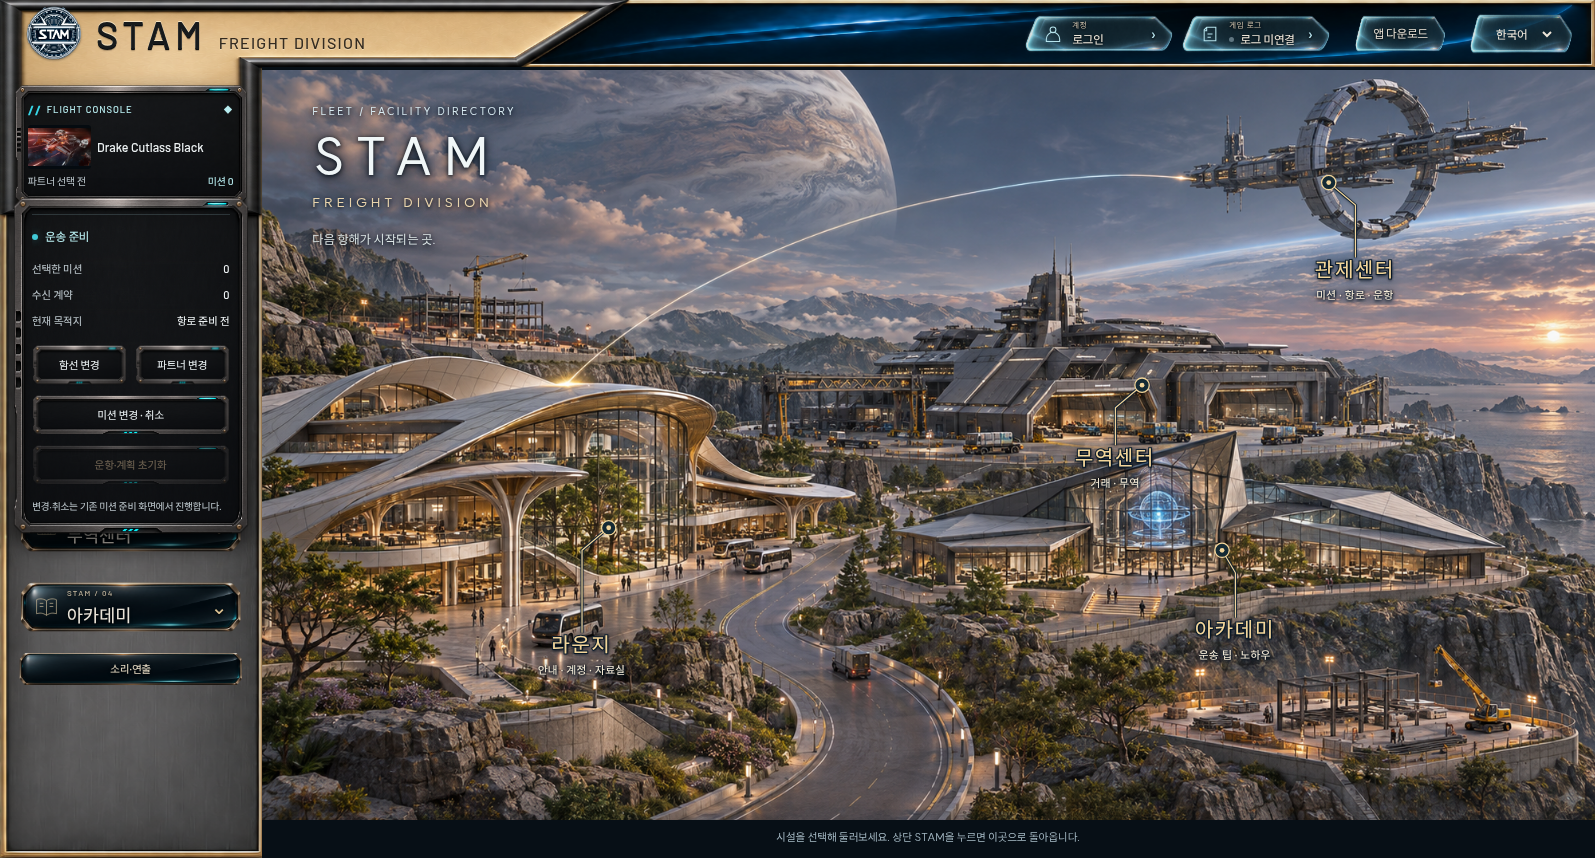
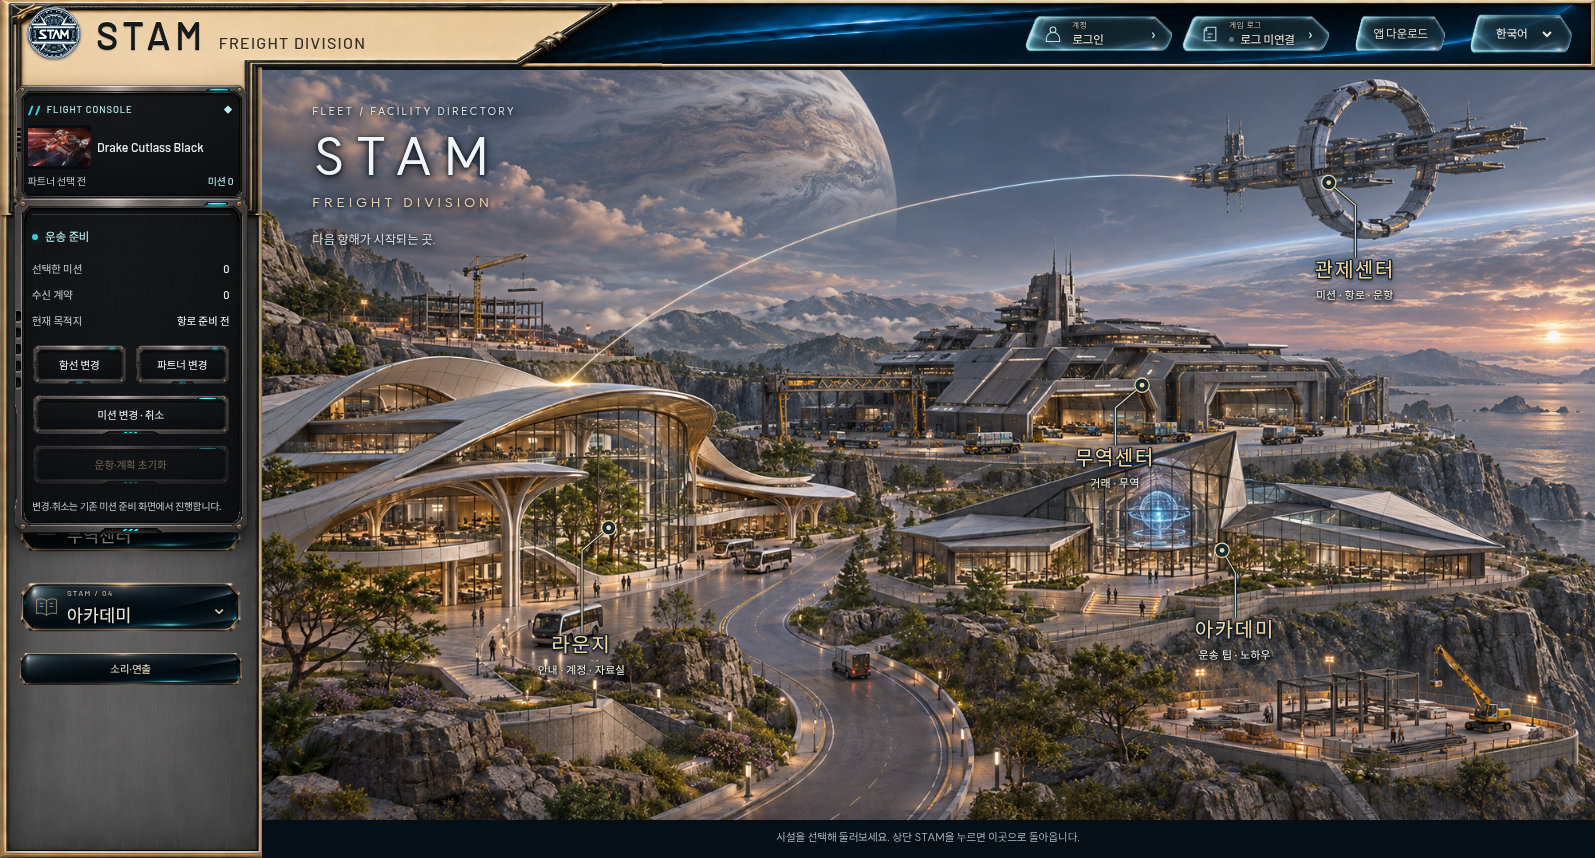
Add refined ornamental edge details to gold housing only

Changed region(s): [[0.0, 0.0, 0.3994, 0.2424], [0.9216, 0.0303, 0.9524, 0.0606]]

diff --git a/apps/control-room/src/ShellMaterial.tsx b/apps/control-room/src/ShellMaterial.tsx
@@ -1,5 +1,6 @@
 import {useLayoutEffect,useRef} from 'react';
 import accent from './assets/navigation/shell-gold-gunmetal.png';
+import ornament from './assets/navigation/shell-gold-ornament.png';
 
 /** A clean material asset, with no baked-in controls or room screenshot.
  * The corner and edge heights stay fixed; the plain strips fill the existing
@@ -34,11 +35,11 @@ export function ShellMaterial(){
   return()=>{observer.disconnect();cancelAnimationFrame(frame);sidebar.removeEventListener('scroll',schedule);window.removeEventListener('resize',schedule);};
  },[]);
  const pieces=[
-  ['join','0 0 216 102',accent],
-  ['sweep','216 0 504 102',accent],
+  ['join','0 0 216 102',ornament],
+  ['sweep','216 0 504 102',ornament],
   ['top','720 0 810 102',accent],
   ['top-end','1530 0 6 102',accent],
-  ['connector','0 102 216 300',accent],
+  ['connector','0 102 216 300',ornament],
   ['side','0 402 216 616',accent],
   ['side-end','0 1018 216 6',accent],
  ];

diff --git a/docs/cinematics/shell-layout-fix-20261118/HANDOFF.md b/docs/cinematics/shell-layout-fix-20261118/HANDOFF.md
@@ -10,7 +10,9 @@
 
 사용자가 회색/백금처럼 보인다고 지적한 시안은 사용하지 않는다. 최신 생성본은 따뜻한 샴페인 골드, 미세한 표면결, 사선 절삭면의 이중 가공 홈과 단차, 모서리의 짧은 가공 표시를 포함한다. 최종 원본 `/workspace/generated_images/exec-6b323f54-03a4-4b51-9653-3e6736ce2f8e.png`. 중간 시안과 기존 원본은 제작 폴더에 보존했다. `assets/provenance.json`에 최종 출처/해시/일곱 구간을 기록했다.
 
-최신 후속: 안쪽 장식선 시안은 교체했다. 검은 금속이 금색 하우징의 실제 가장자리를 감싸며, 볼록한 둥근 단면과 각진 맞댐 모서리를 가진다. 상단/사선/안쪽 수평/콘솔 둘레/아래 단차를 연결하고 경로의 모서리는 둥글리지 않았다. 기존 금색·한 줄 글씨·본문 배치를 유지했고 코드/기능 변경은 없다. 중간 시안은 제작 폴더에 보존한다.
+최신 후속: 2번 금색 하우징에만 얇은 유광 검은 금속 레일·작은 모서리 장식·사선 연결 장식을 추가했다. 단면 윗면은 평평하고 옆면으로 두께를 표현하며 가장자리에서 조금 안쪽에 놓인다. 두꺼운 둥근 몰딩은 교체했다. `shell-gold-ornament.png`를 join/sweep/connector 구간에만 연결한다. top/top-end/side/side-end는 기존 `shell-gold-gunmetal.png`를 그대로 사용한다. 금색2번 외의 큰 영역을 새 검은 테두리로 감싸지 않는다. 최종 원본 exec-51bc0099-c9a9-4295-812b-76d3e0b6467d.png. 본문/기능/CSS 배치 변경 없음.
+
+이번 장식 수정 뒤 타입/빌드·320–1595px 브랜드5크기·하우징4상태 확인을 수행했다. 최신 실제 화면은 `review/brand-desktop.png`, `brand-mobile.png`, `housing-final.png`, `housing-expanded.png`. 그 외 여행/왕복 캡처와12개 기하 결과는 직전 배치 검증 기록이며 이번에는 배치를 바꾸지 않았다.
 
 상단의 직선 사선 구간 폭은400px(좁은 데스크톱200px), 나머지 유리만 가변 길이를 채운다. Sidebar 하우징은 콘솔 요약 하단과 메뉴 캡션 사이에서 직선 단차로 끝난다. 상세 콘솔은 기존처럼 메뉴 앞에 겹쳐 열린다. ResizeObserver와 스크롤 이벤트는 해제 시 정리한다. 기존 A콘솔/D버튼과 기능 상태는 변경하지 않는다.
 

diff --git a/PROJECT_STATUS.md b/PROJECT_STATUS.md
@@ -1,3 +1,7 @@
+## 2026-11-18 연출 — 금색2번에만 장신구형 디테일 / PR #42 미배포
+
+2번 금색 하우징에 얇고 유광인 검은 금속 레일·작은 모서리 장식·사선 연결 장식을 추가했다. 평평한 윗면/입체 옆면이며 살짝 안쪽 배치. 두꺼운 둥근 몰딩과1·3번을 감싼 중간 시안은 적용하지 않는다. 새 shell-gold-ornament.png는 join/sweep/connector에만 연결하고 나머지는 기존 자산을 유지했다. 본문/기능/배치 변경 없음. 타입·빌드, 브랜드5크기 및 하우징4상태 확인. 인계 최종 캡처/출처 갱신, 병합·배포 없음. 아래는 이전 단계 기록.
+
 ## 2026-11-18 연출 — 가장자리를 감싸는 검은 금속 테두리 / PR #42 미배포
 
 검은 금속 테두리가 금색 하우징의 실제 가장자리를 감싸도록 생성 에셋을 수정했다. 표면 단면은 볼록하게 둥글고, 모서리와 사선 접합은 각진 맞댐 구조다. 안쪽에 띄운 장식선 시안은 교체했다. 기존 금색/한 줄 글씨/본문·기능은 유지. 최종 출처 exec-6b323f54-03a4-4b51-9653-3e6736ce2f8e.png 및 실제 화면은 기존 인계에 갱신. main·공통 인계 병합/배포 없음.
